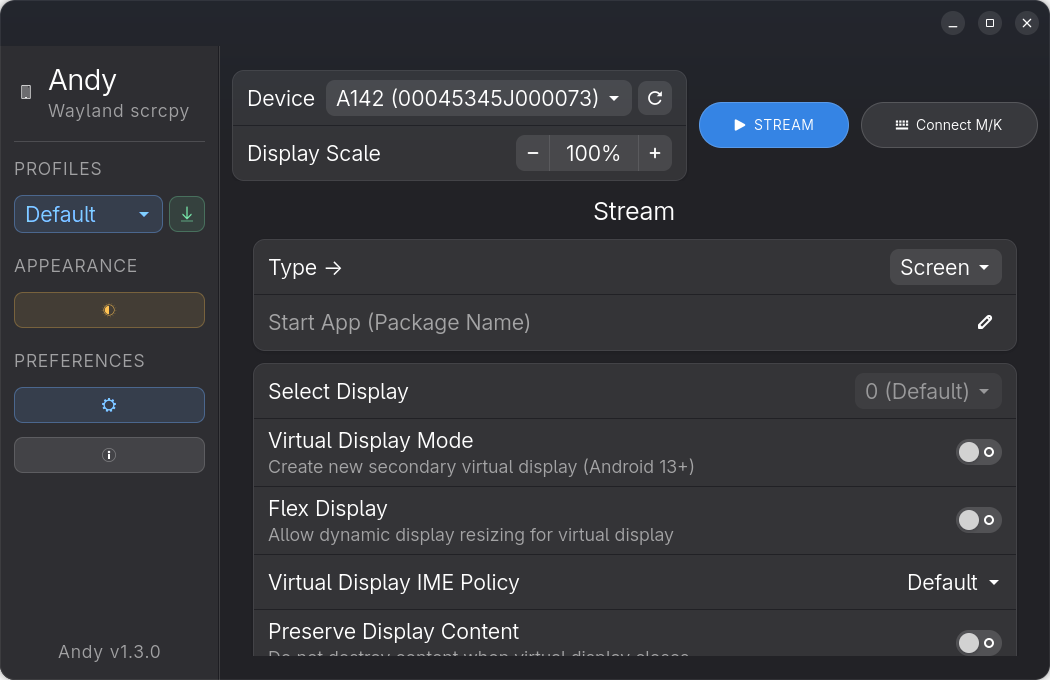
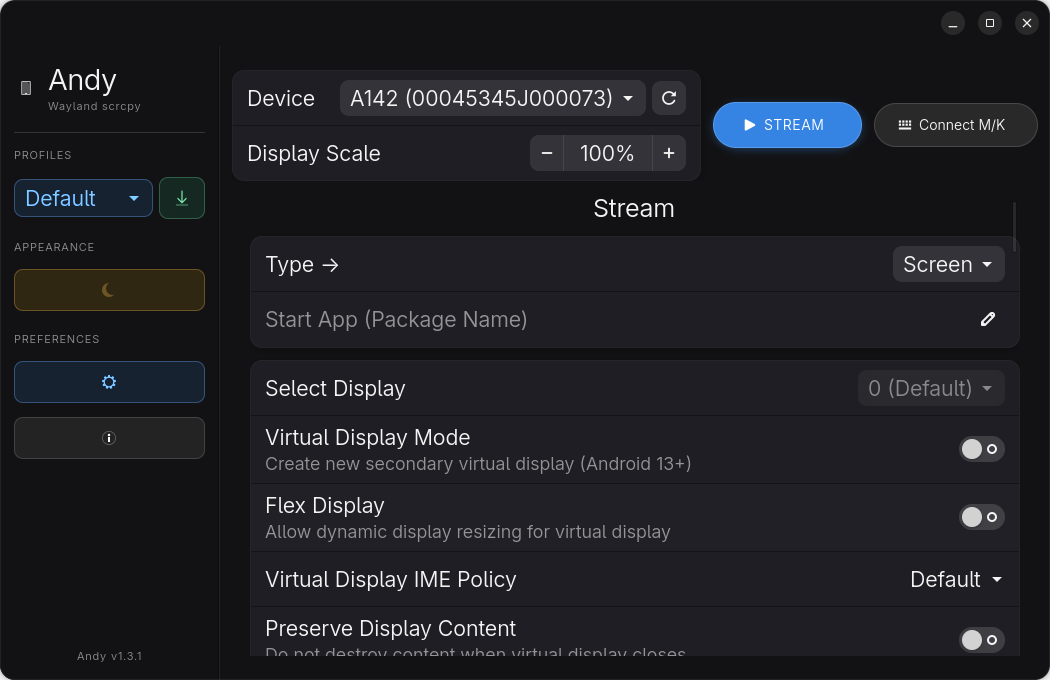
fix(ui): unify light mode sidebar background with main app canvas (v1.3.1)

diff --git a/src/ui/common/css.py b/src/ui/common/css.py
@@ -272,10 +272,13 @@ APPLICATION_CSS = b"""
 
     /* True Pure Light Mode (Crisp & Bright, Zero Grey) */
     window.light-theme,
-    window.light-theme .background,
-    .light-theme {
+    window.background.light-theme,
+    .light-theme,
+    .light-theme .sidebar-pane,
+    window.light-theme .sidebar-pane {
         background-color: #ffffff;
-        background-image: linear-gradient(180deg, rgba(53, 132, 228, 0.03) 0%, transparent 160px);
+        background: #ffffff;
+        background-image: none;
         color: #1a1a1a;
     }
     window.light-theme .boxed-list,
@@ -288,10 +291,13 @@ APPLICATION_CSS = b"""
 
     /* True Deep Dark Mode (Sleek & Obsidian, Zero Mid-Grey) */
     window.dark-theme,
-    window.dark-theme .background,
-    .dark-theme {
+    window.background.dark-theme,
+    .dark-theme,
+    .dark-theme .sidebar-pane,
+    window.dark-theme .sidebar-pane {
         background-color: #121214;
-        background-image: linear-gradient(180deg, rgba(53, 132, 228, 0.04) 0%, transparent 160px);
+        background: #121214;
+        background-image: none;
         color: #f4f4f5;
     }
     window.dark-theme .boxed-list,
@@ -314,5 +320,5 @@ def apply_application_css():
         Gtk.StyleContext.add_provider_for_display(
             display,
             css_provider,
-            Gtk.STYLE_PROVIDER_PRIORITY_APPLICATION
+            Gtk.STYLE_PROVIDER_PRIORITY_USER
         )

diff --git a/src/core/config.py b/src/core/config.py
@@ -2,7 +2,7 @@ import os
 
 APP_ID = 'com.wolfsekhar.Andy'
 APP_NAME = 'Andy'
-VERSION = '1.3.0'
+VERSION = '1.3.1'
 
 # Standard directory paths & FreeDesktop XDG Base Directory Specification
 ROOT_DIR = os.path.dirname(os.path.dirname(os.path.dirname(os.path.abspath(__file__))))
